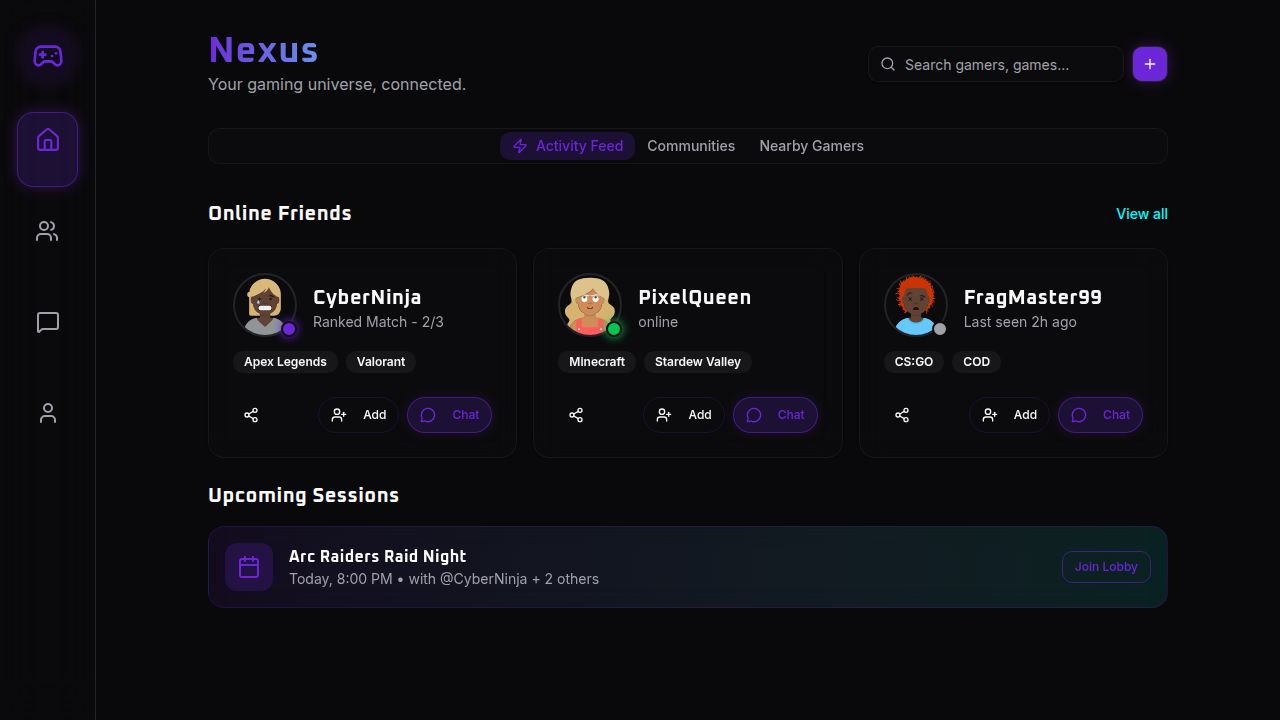
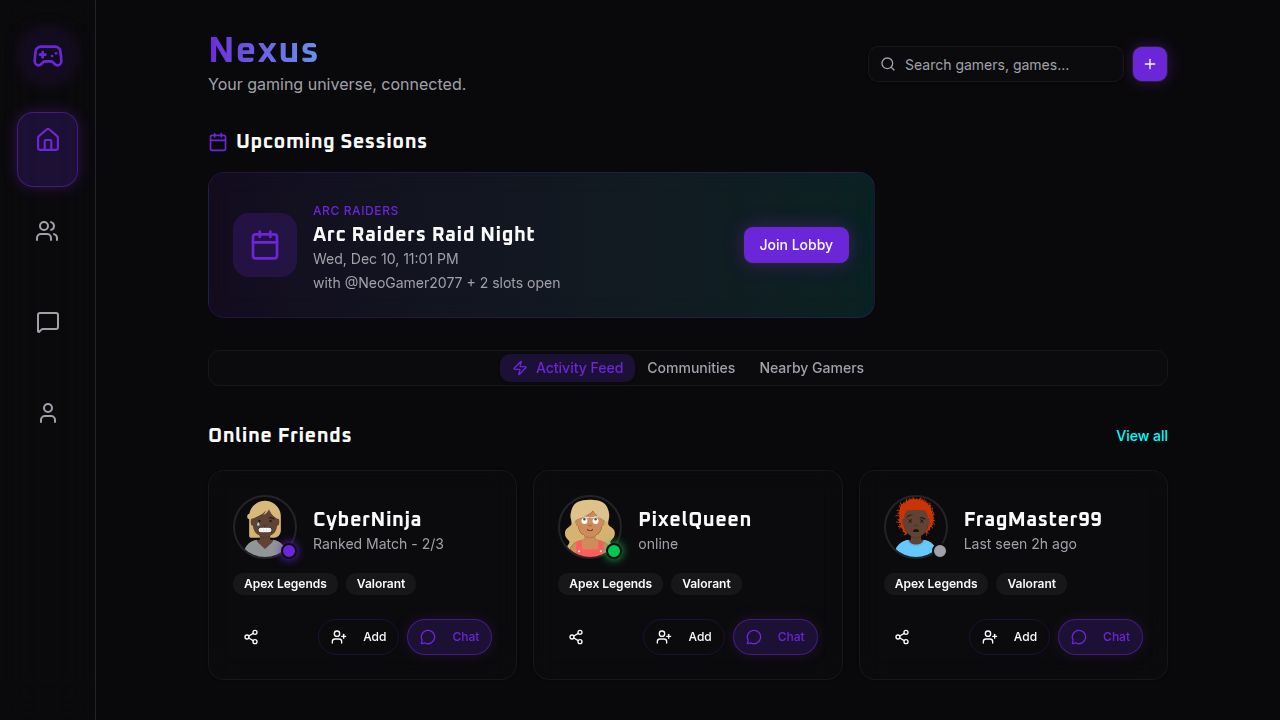
Move upcoming sessions to the top and make them swipeable
Update the Home page to display upcoming sessions as a swipeable carousel at the top, include a "Join Lobby" button, and show "No upcoming sessions" when none are available.

Replit-Commit-Author: Agent
Replit-Commit-Session-Id: d4995a27-6640-4c41-a3a9-7b3ffc02916a
Replit-Commit-Checkpoint-Type: full_checkpoint
Replit-Commit-Event-Id: ec6ba860-dea8-48c2-aabe-4688e0cfe3fc
Replit-Commit-Screenshot-Url: https://storage.googleapis.com/screenshot-production-us-central1/17a58c44-41e3-418e-957b-7ed34030a901/d4995a27-6640-4c41-a3a9-7b3ffc02916a/CC0QbcZ
Replit-Helium-Checkpoint-Created: true

diff --git a/client/src/pages/home.tsx b/client/src/pages/home.tsx
@@ -7,7 +7,8 @@ import CreateSessionDialog from "@/components/create-session-dialog";
 import { Button } from "@/components/ui/button";
 import { Input } from "@/components/ui/input";
 import { Tabs, TabsList, TabsTrigger, TabsContent } from "@/components/ui/tabs";
-import { Search, Calendar, Zap } from "lucide-react";
+import { Carousel, CarouselContent, CarouselItem, CarouselNext, CarouselPrevious } from "@/components/ui/carousel";
+import { Search, Calendar, Zap, ChevronLeft, ChevronRight } from "lucide-react";
 import { Link } from "wouter";
 
 // For demo purposes - in a real app this would come from auth
@@ -62,6 +63,76 @@ export default function Home() {
         </div>
       </header>
 
+      {/* Upcoming Sessions - Now at top as a swipeable carousel */}
+      <section className="mb-8">
+        <div className="flex items-center justify-between mb-4">
+          <h2 className="text-xl font-display font-bold flex items-center gap-2">
+            <Calendar className="w-5 h-5 text-primary" />
+            Upcoming Sessions
+          </h2>
+          {sessions && sessions.length > 1 && (
+            <span className="text-xs text-muted-foreground">Swipe to see more</span>
+          )}
+        </div>
+        
+        {sessions && sessions.length > 0 ? (
+          <Carousel
+            opts={{
+              align: "start",
+              loop: true,
+            }}
+            className="w-full"
+          >
+            <CarouselContent className="-ml-2 md:-ml-4">
+              {sessions.map((session: any) => (
+                <CarouselItem key={session.id} className="pl-2 md:pl-4 basis-full md:basis-[85%] lg:basis-[70%]">
+                  <div className="bg-gradient-to-r from-primary/10 to-accent/10 border border-primary/20 rounded-xl p-4 md:p-6 flex flex-col md:flex-row items-center justify-between backdrop-blur-md gap-4 h-full">
+                    <div className="flex items-center gap-4 w-full md:w-auto">
+                      <div className="bg-primary/20 p-3 md:p-4 rounded-xl text-primary shrink-0">
+                        <Calendar className="w-6 h-6 md:w-8 md:h-8" />
+                      </div>
+                      <div>
+                        <span className="text-xs uppercase tracking-wider text-primary font-medium">{session.game}</span>
+                        <h3 className="font-bold text-lg md:text-xl">{session.title}</h3>
+                        <p className="text-sm text-muted-foreground">
+                          {new Date(session.scheduledFor).toLocaleString([], { 
+                            weekday: 'short', 
+                            month: 'short', 
+                            day: 'numeric',
+                            hour: '2-digit', 
+                            minute: '2-digit' 
+                          })}
+                        </p>
+                        <p className="text-sm text-muted-foreground mt-1">
+                          with @{session.creator.username} + {session.slotsNeeded} slots open
+                        </p>
+                      </div>
+                    </div>
+                    <Link href={`/messages`}>
+                      <Button className="w-full md:w-auto bg-primary hover:bg-primary/90 text-primary-foreground shadow-[0_0_20px_rgba(139,47,201,0.3)]">
+                        Join Lobby
+                      </Button>
+                    </Link>
+                  </div>
+                </CarouselItem>
+              ))}
+            </CarouselContent>
+            {sessions.length > 1 && (
+              <>
+                <CarouselPrevious className="hidden md:flex -left-4 bg-card/80 border-border/50 hover:bg-primary/20 hover:text-primary hover:border-primary/50" />
+                <CarouselNext className="hidden md:flex -right-4 bg-card/80 border-border/50 hover:bg-primary/20 hover:text-primary hover:border-primary/50" />
+              </>
+            )}
+          </Carousel>
+        ) : (
+          <div className="bg-card/30 border border-border/50 rounded-xl p-8 text-center">
+            <Calendar className="w-12 h-12 mx-auto text-muted-foreground mb-3" />
+            <p className="text-muted-foreground">No upcoming sessions</p>
+            <p className="text-xs text-muted-foreground mt-1">Create one to start playing with friends!</p>
+          </div>
+        )}
+      </section>
+
       <Tabs defaultValue="feed" className="space-y-6" onValueChange={setActiveTab}>
         <TabsList className="inline-flex h-9 items-center rounded-lg text-muted-foreground bg-card/50 backdrop-blur p-1 border border-border/50 w-full justify-center overflow-x-auto no-scrollbar">
           <TabsTrigger value="feed" className="data-[state=active]:bg-primary/20 data-[state=active]:text-primary shrink-0">
@@ -103,34 +174,6 @@ export default function Home() {
                 ) : (
                   <p className="text-muted-foreground col-span-full text-center py-8">No friends yet. Start connecting with other gamers!</p>
                 )}
-              </div>
-            )}
-          </section>
-
-          <section>
-            <h2 className="text-xl font-display font-bold mb-4">Upcoming Sessions</h2>
-            {sessions && sessions.length > 0 ? (
-              sessions.slice(0, 3).map((session: any) => (
-                <div key={session.id} className="bg-gradient-to-r from-primary/10 to-accent/10 border border-primary/20 rounded-xl p-4 flex flex-col md:flex-row items-center justify-between backdrop-blur-md gap-4 mb-4">
-                  <div className="flex items-center gap-4 w-full md:w-auto">
-                    <div className="bg-primary/20 p-3 rounded-lg text-primary shrink-0">
-                      <Calendar className="w-6 h-6" />
-                    </div>
-                    <div>
-                      <h3 className="font-bold">{session.title}</h3>
-                      <p className="text-sm text-muted-foreground">
-                        {new Date(session.scheduledFor).toLocaleString()} • with @{session.creator.username} + {session.slotsNeeded} others
-                      </p>
-                    </div>
-                  </div>
-                  <Button size="sm" variant="outline" className="w-full md:w-auto border-primary/50 text-primary hover:bg-primary hover:text-white">
-                    Join Lobby
-                  </Button>
-                </div>
-              ))
-            ) : (
-              <div className="bg-card/30 border border-border/50 rounded-xl p-8 text-center">
-                <p className="text-muted-foreground">No upcoming sessions. Create one to start playing!</p>
               </div>
             )}
           </section>
